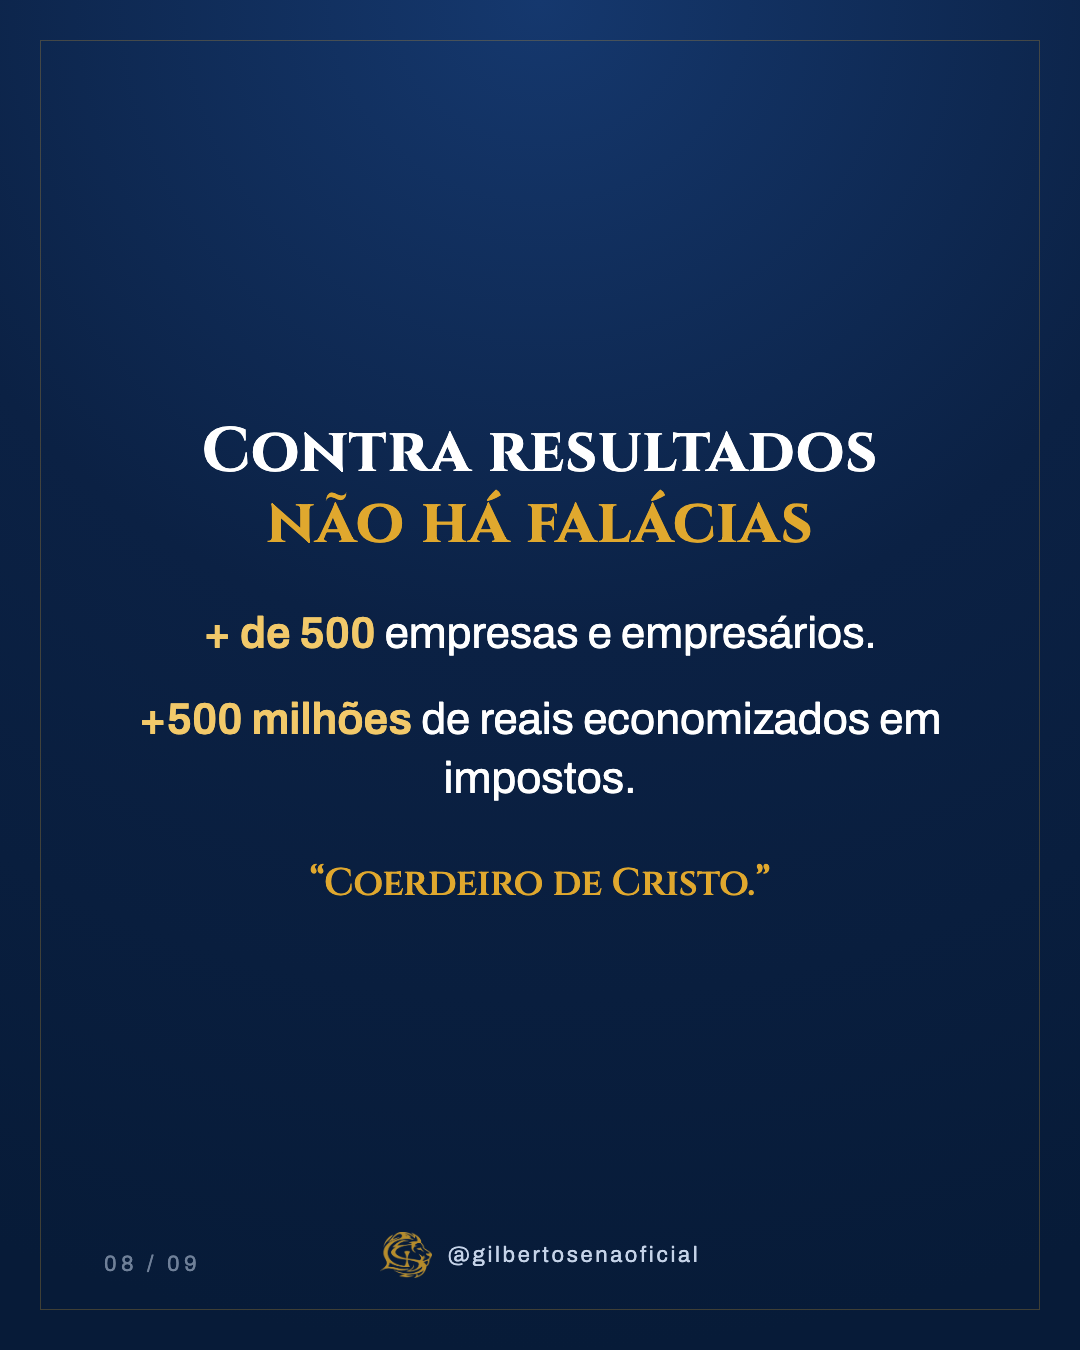
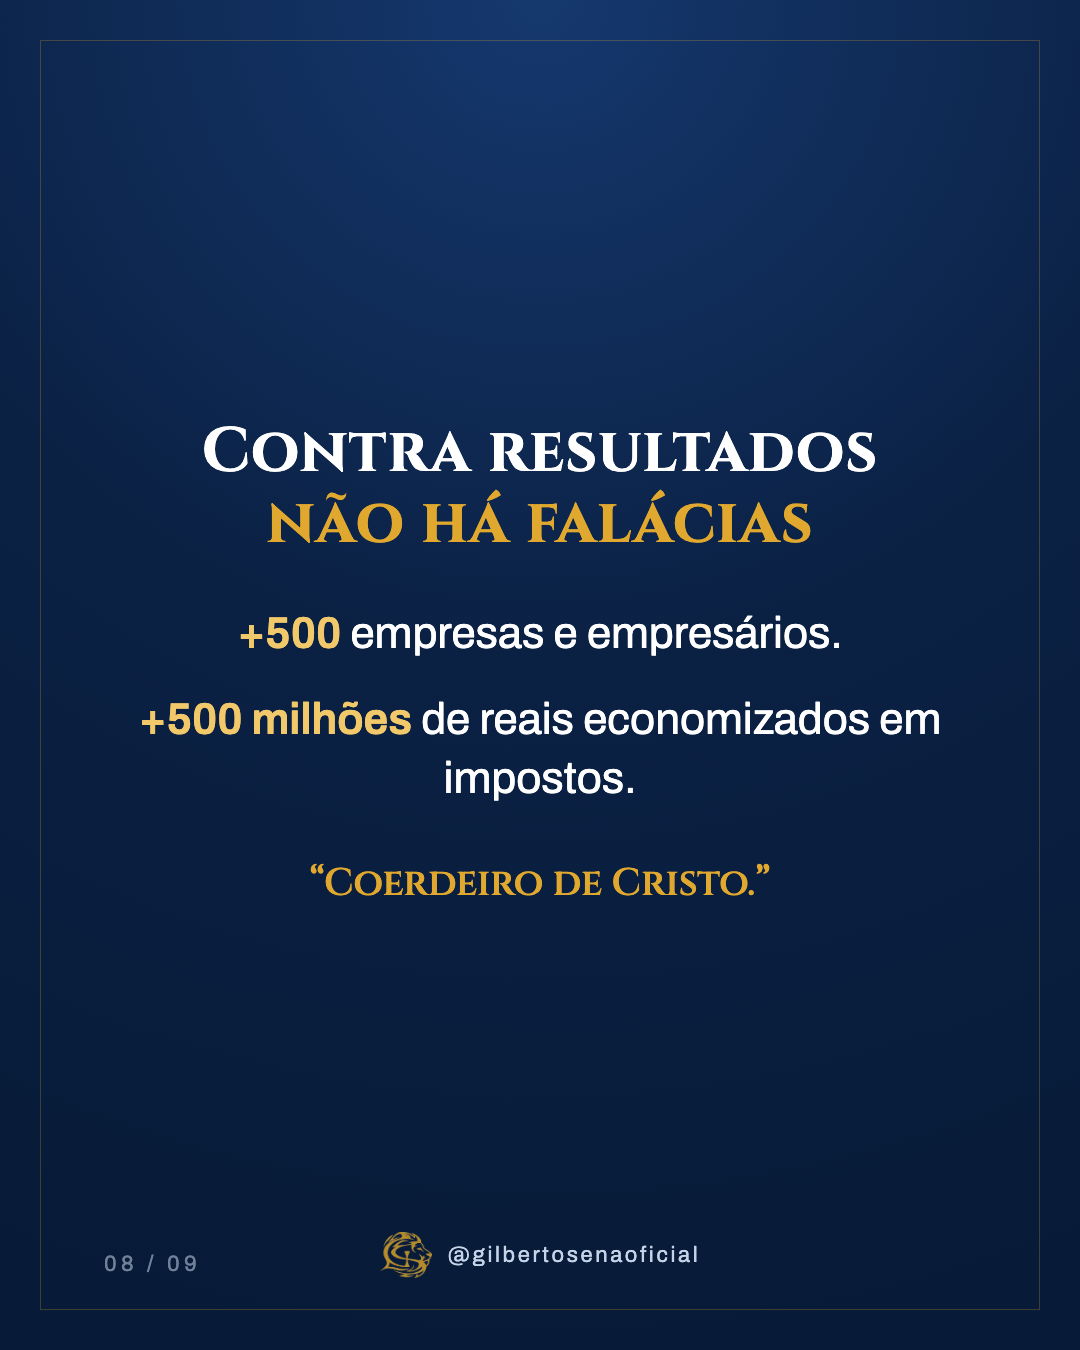
Carrossel: "+500 empresas e empresarios", sem o "de"
Fica igual a linha de baixo, que ja era "+500 milhoes". Os dois numeros agora
abrem do mesmo jeito e o card ganha ritmo.

Changed region(s): [[0.1833, 0.4356, 0.7944, 0.4978]]

diff --git a/saidas/carrossel-quem-e-gilberto-2026-10-06/carrossel.html b/saidas/carrossel-quem-e-gilberto-2026-10-06/carrossel.html
@@ -152,7 +152,7 @@ const CARDS = [
 
  {n:"08", classe:"g1",
   titulo:'Contra resultados<span class="ouro">não há falácias</span>',
-  html:`<p style="font-size:44px;line-height:1.35"><b>+ de 500</b> empresas e
+  html:`<p style="font-size:44px;line-height:1.35"><b>+500</b> empresas e
         empresários.</p>
         <p style="font-size:44px;line-height:1.35"><b>+500 milhões</b> de reais
         economizados em impostos.</p>

diff --git a/saidas/carrossel-quem-e-gilberto-2026-10-06/README.md b/saidas/carrossel-quem-e-gilberto-2026-10-06/README.md
@@ -31,7 +31,7 @@ que o Hub faz, a linha fica específica.**
 
 ## Números do card 08
 
-**+ de 500 empresas e empresários** e **+R$ 500 milhões economizados em
+**+500 empresas e empresários** e **+R$ 500 milhões economizados em
 impostos.** Confirmado por ele em 06/out/2026.
 
 Ele chegou a pedir "500 mil" no valor economizado; levantei o conflito com o
